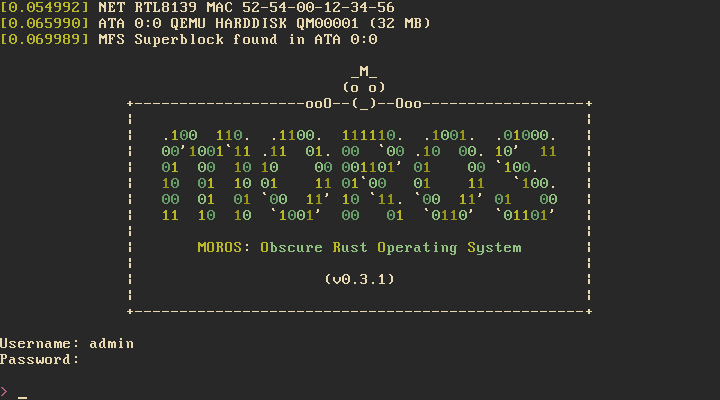
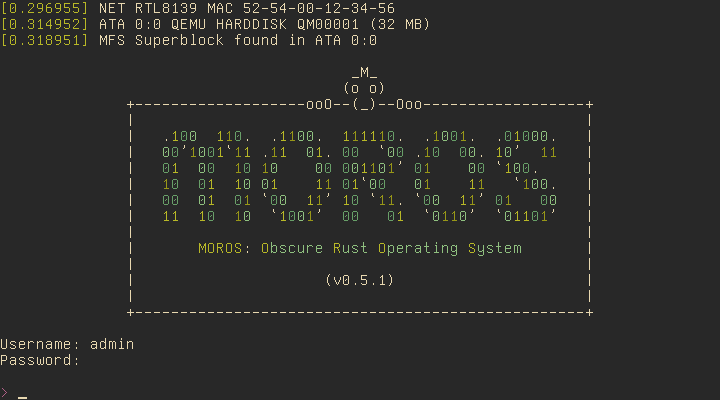
Add VGA palette loader (#203)
* Add VGA palette loader

* Update screenshot

diff --git a/src/kernel/vga.rs b/src/kernel/vga.rs
@@ -89,6 +89,29 @@ fn color_from_ansi(code: u8) -> Color {
     }
 }
 
+impl Color {
+    fn to_palette_code(&self) -> u8 {
+        match self {
+            Color::Black      => 0x00,
+            Color::Blue       => 0x01,
+            Color::Green      => 0x02,
+            Color::Cyan       => 0x03,
+            Color::Red        => 0x04,
+            Color::Magenta    => 0x05,
+            Color::LightGray  => 0x07,
+            Color::Brown      => 0x14,
+            Color::DarkGray   => 0x38,
+            Color::LightBlue  => 0x39,
+            Color::LightGreen => 0x3A,
+            Color::LightCyan  => 0x3B,
+            Color::LightRed   => 0x3C,
+            Color::Pink       => 0x3D,
+            Color::Yellow     => 0x3E,
+            Color::White      => 0x3F,
+        }
+    }
+}
+
 #[derive(Debug, Clone, Copy, PartialEq, Eq)]
 #[repr(transparent)]
 struct ColorCode(u8);
@@ -278,6 +301,22 @@ impl Writer {
         }
     }
 
+    pub fn set_palette(&mut self, palette: Palette) {
+        let mut addr: Port<u8> = Port::new(0x03C8); // Address Write Mode Register
+        let mut data: Port<u8> = Port::new(0x03C9); // Data Register
+        for (i, r, g, b) in palette.colors {
+            if i < 16 {
+                let code = COLORS[i as usize].to_palette_code();
+                unsafe {
+                    addr.write(code);
+                    data.write(r >> 2); // Convert 8-bit color to 6-bit color
+                    data.write(g >> 2);
+                    data.write(b >> 2);
+                }
+            }
+        }
+    }
+
 }
 
 /// See https://vt100.net/emu/dec_ansi_parser
@@ -413,25 +452,15 @@ pub fn set_font(font: &Font) {
     })
 }
 
-// Dark Gruvbox color palette
-const PALETTE: [(u8, u8, u8, u8); 16] = [
-    (0x00, 0x28, 0x28, 0x28), // Black
-    (0x01, 0x45, 0x85, 0x88), // Blue
-    (0x02, 0x98, 0x97, 0x1A), // Green
-    (0x03, 0x68, 0x9D, 0x6A), // Cyan
-    (0x04, 0xCC, 0x24, 0x1D), // Red
-    (0x05, 0xB1, 0x62, 0x86), // Magenta
-    (0x07, 0xEB, 0xDB, 0xB2), // Light Gray
-    (0x14, 0xD7, 0x99, 0x21), // Brown (Dark Yellow)
-    (0x38, 0xA8, 0x99, 0x84), // Gray (Dark Gray)
-    (0x39, 0x83, 0xa5, 0x98), // Light Blue
-    (0x3A, 0xB8, 0xBB, 0x26), // Light Green
-    (0x3B, 0x8E, 0xC0, 0x7C), // Light Cyan
-    (0x3C, 0xFB, 0x49, 0x34), // Light Red
-    (0x3D, 0xD3, 0x86, 0x9B), // Pink (Light Magenta)
-    (0x3E, 0xFA, 0xBD, 0x2F), // Yellow (Light Yellow)
-    (0x3F, 0xFB, 0xF1, 0xF7), // White
-];
+pub fn set_palette(palette: Palette) {
+    interrupts::without_interrupts(|| {
+        WRITER.lock().set_palette(palette)
+    })
+}
+
+pub struct Palette {
+    pub colors: [(u8, u8, u8, u8); 16]
+}
 
 pub fn init() {
     let mut isr: Port<u8> = Port::new(0x03DA); // Input Status Register
@@ -444,18 +473,5 @@ pub fn init() {
         aadr.write(0x30); // Select attribute mode control register
         let value = adrr.read(); // Read attribute mode control register
         aadr.write(value & !0x08); // Use `value | 0x08` to enable and `value ^ 0x08` to toggle
-    }
-
-
-    // Load color palette
-    let mut addr: Port<u8> = Port::new(0x03C8); // Address Write Mode Register
-    let mut data: Port<u8> = Port::new(0x03C9); // Data Register
-    for (i, r, g, b) in &PALETTE {
-        unsafe {
-            addr.write(*i);
-            data.write(*r >> 2); // Convert 8-bit color to 6-bit color
-            data.write(*g >> 2);
-            data.write(*b >> 2);
-        }
     }
 }

diff --git a/src/user/vga.rs b/src/user/vga.rs
@@ -1,5 +1,7 @@
 use crate::{kernel, print, user};
+use crate::kernel::vga::Palette;
 use alloc::vec::Vec;
+use core::convert::TryInto;
 
 pub fn main(args: &[&str]) -> user::shell::ExitCode {
     if args.len() == 1 {
@@ -21,6 +23,29 @@ pub fn main(args: &[&str]) -> user::shell::ExitCode {
                         return user::shell::ExitCode::CommandError;
                     }
                 }
+            } else if args.len() == 4 && args[2] == "palette" {
+                if let Some(file) = kernel::fs::File::open(args[3]) {
+                    let mut colors = Vec::with_capacity(16);
+                    for line in file.read_to_string().split("\n") {
+                        let line = line.split("#").next().unwrap();
+                        let color: Vec<u8> = line.split(",").filter_map(|value| {
+                            let radix = if value.contains("0x") { 16 } else { 10 };
+                            let value = value.trim().trim_start_matches("0x");
+                            u8::from_str_radix(value, radix).ok()
+                        }).collect();
+                        if color.len() == 4 {
+                            colors.push((color[0], color[1], color[2], color[3]));
+                        }
+                    }
+                    if let Ok(colors) = colors.try_into() {
+                        let palette = Palette { colors };
+                        kernel::vga::set_palette(palette);
+                    } else {
+                        print!("Could not parse palette file\n");
+                        return user::shell::ExitCode::CommandError;
+                    }
+                }
+
             } else {
                 print!("Invalid command\n");
                 return user::shell::ExitCode::CommandError;

diff --git a/src/user/install.rs b/src/user/install.rs
@@ -41,6 +41,7 @@ pub fn main(_args: &[&str]) -> user::shell::ExitCode {
         copy_file("/ini/boot.sh", include_bytes!("../../dsk/ini/boot.sh"));
         copy_file("/ini/banner.txt", include_bytes!("../../dsk/ini/banner.txt"));
         copy_file("/ini/version.txt", include_bytes!("../../dsk/ini/version.txt"));
+        copy_file("/ini/palette.csv", include_bytes!("../../dsk/ini/palette.csv"));
         copy_file("/tmp/alice.txt", include_bytes!("../../dsk/tmp/alice.txt"));
 
         create_dir("/ini/fonts");
